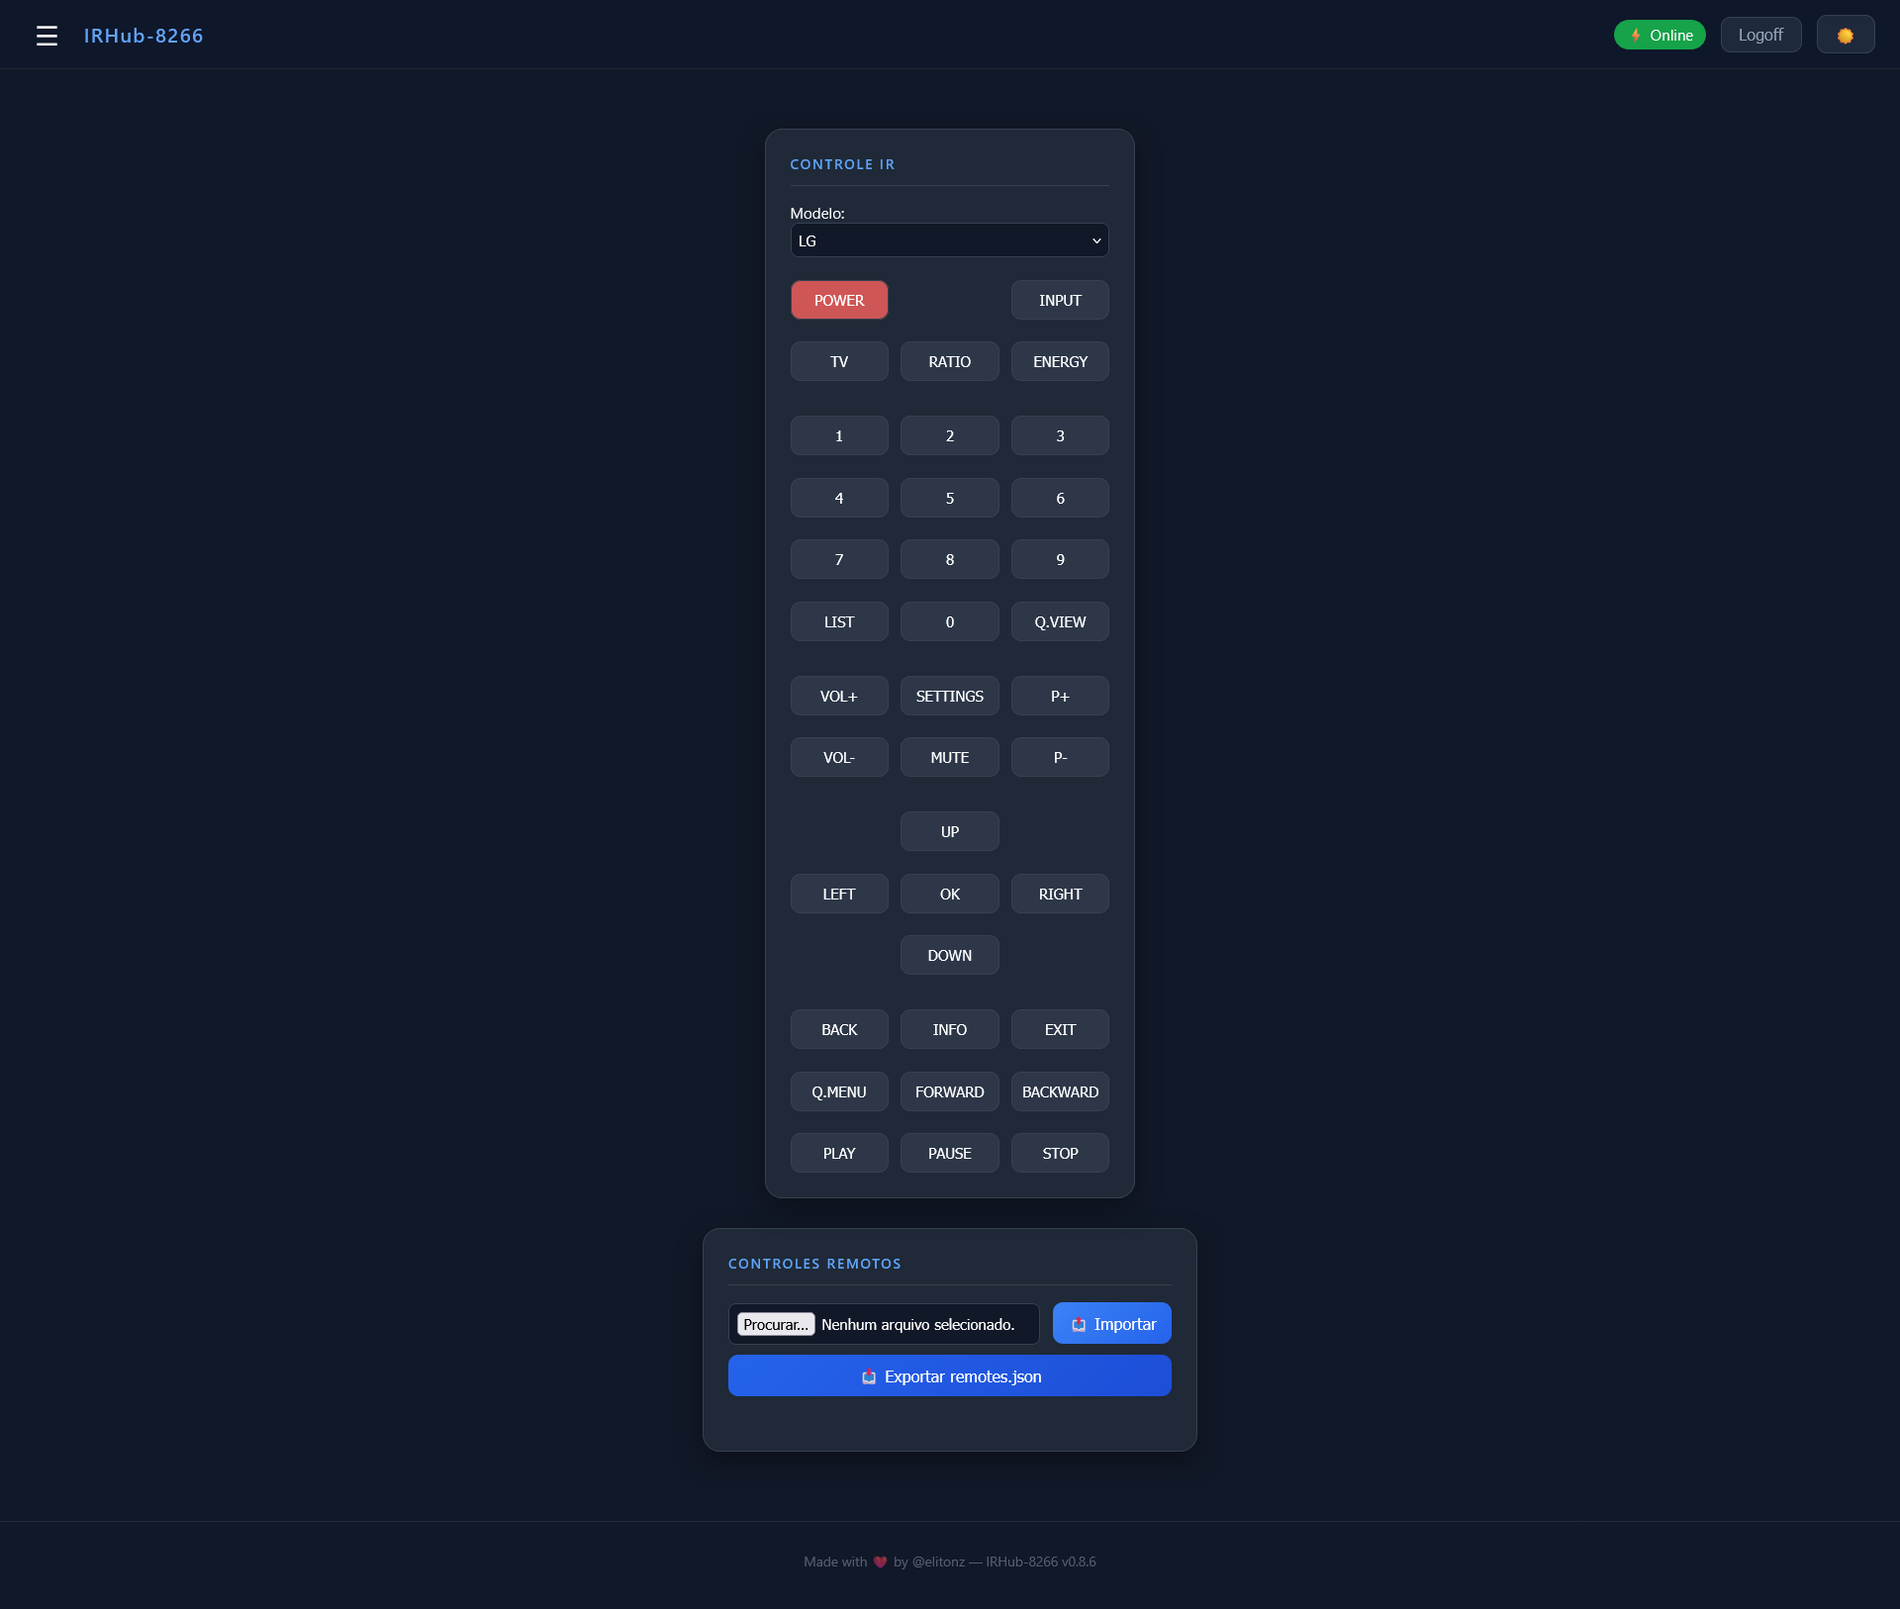
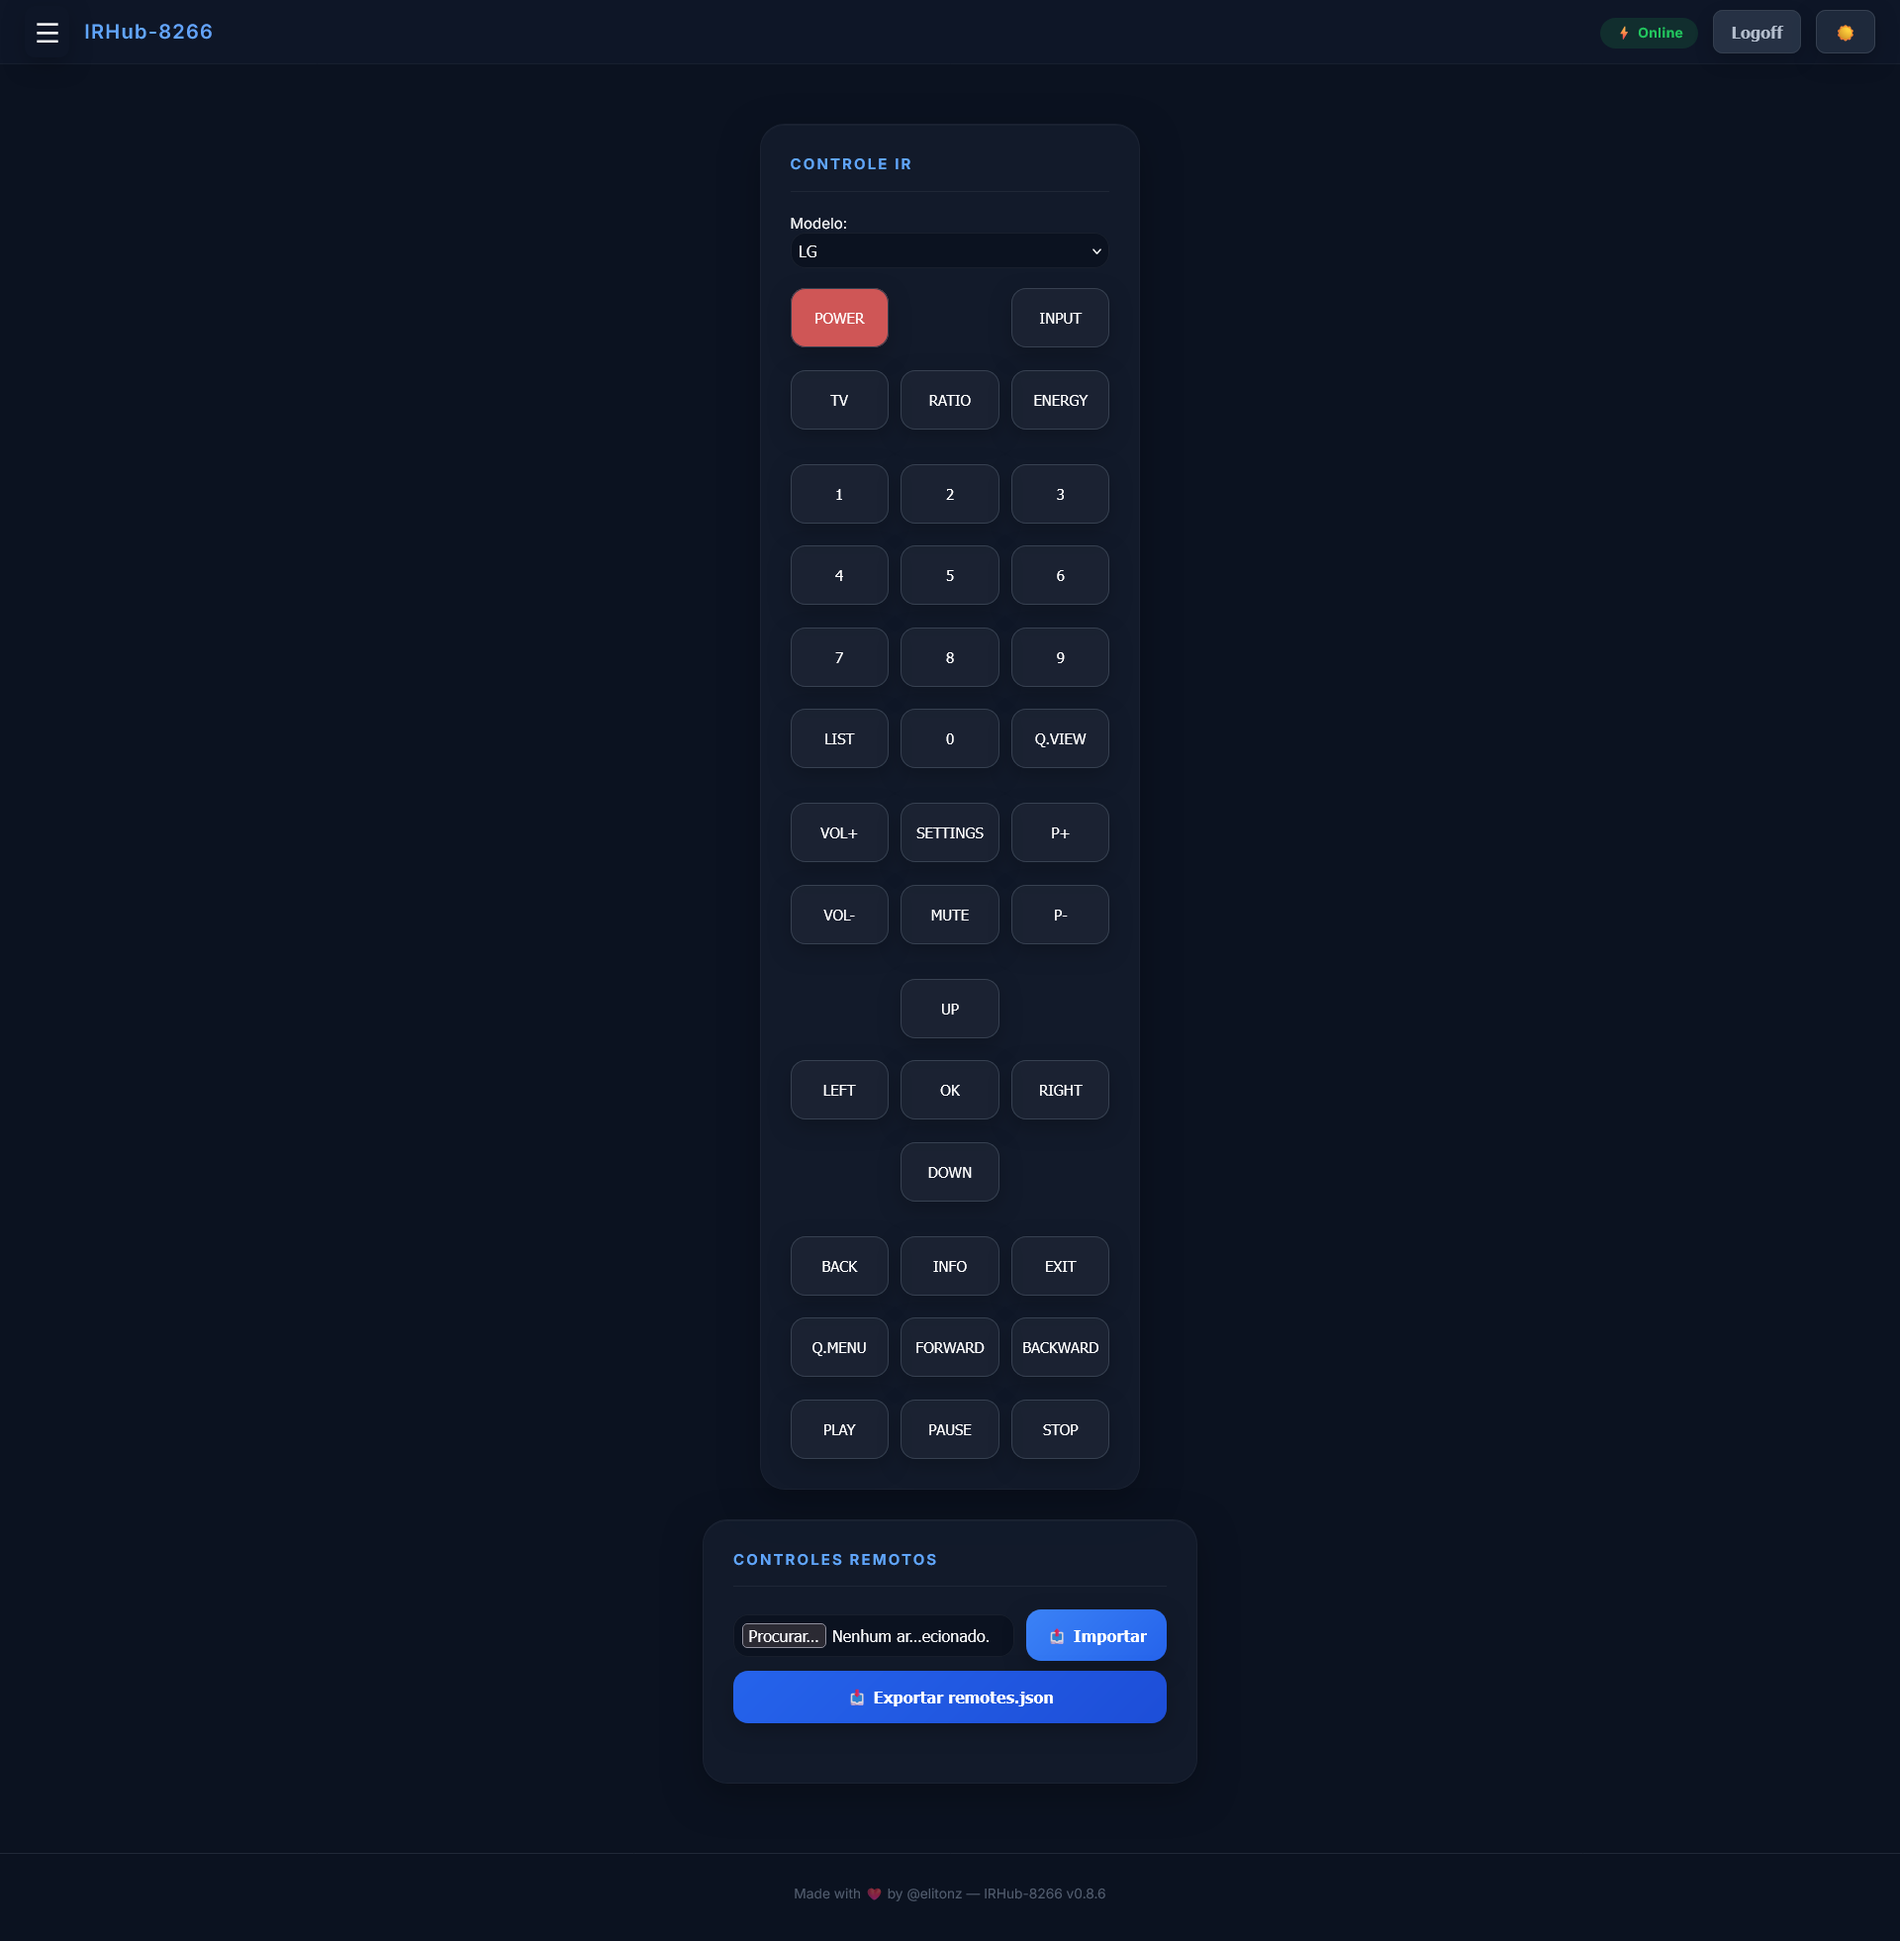
Update 12/05/2026

diff --git a/firmware/IRHub-8266/data/style.css b/firmware/IRHub-8266/data/style.css
@@ -7,11 +7,11 @@
   color-scheme: dark;
 
   --button-text: #fff;
-  --btn-primary-bg: #2563eb;
-  --btn-primary-hv: #3b82f6;
 
-  /* --btn-primary-bg: linear-gradient(135deg, #2563eb, #1d4ed8);
-  --btn-primary-hv: linear-gradient(135deg, #3b82f6, #1e40af); */
+  --btn-primary-bg: linear-gradient(135deg, #2563eb, #1d4ed8);
+  --btn-primary-hv: linear-gradient(135deg, #3b82f6, #1e40af);
+  /* --btn-primary-bg: #2563eb;
+  --btn-primary-hv: #3b82f6; */
   --btn-led-bg: linear-gradient(135deg, #06b6d4, #0ea5e9);
   --btn-led-hv: linear-gradient(135deg, #22d3ee, #0284c7);
   --btn-ir-emitter-bg: linear-gradient(135deg, #8b5cf6, #7c3aed);
@@ -42,7 +42,8 @@
   --text-muted: #94a3b8;
   --border: #374151;
   --nav-bg: rgba(15, 23, 42, .72);
-  --nav-border: #1e293b;
+  /* --nav-border: rgb(30, 41, 59); */
+  --nav-border: rgba(255, 255, 255, .04);
   --link-active-bg: #1e3a5f;
   --link-active-tx: #60a5fa;
   --console-border: #181453;
@@ -72,6 +73,12 @@
   --shadow-sm: 0 2px 8px rgba(0, 0, 0, .12);
   --shadow-md: 0 6px 16px rgba(0, 0, 0, .18);
   --shadow-lg: 0 10px 30px rgba(0, 0, 0, .25);
+
+  --shadow-card:
+    0 10px 30px rgba(0, 0, 0, .25),
+    inset 0 1px 0 rgba(255, 255, 255, .03);
+  --shadow-card-hover:
+    0 12px 28px rgba(15, 23, 42, .10);
 
   --tr-default:
     background .2s ease,
@@ -103,7 +110,8 @@
 [data-theme="light"] {
   color-scheme: light;
 
-  --bg-base: #f6f8fc;
+  /* --bg-base: #f6f8fc; */
+  --bg-base: #eef3f9;
   --bg-surface: rgba(255, 255, 255, .82);
   --bg-raised: #e8edf3;
   --text-primary: #1e293b;
@@ -125,6 +133,14 @@
   --btn-navbar-tx: #475569;
   --btn-navbar-hv-bg: #e2e8f0;
   --btn-navbar-hv-tx: #1e293b;
+  --glass-bg: rgba(255, 255, 255, .82);
+
+
+  --shadow-card:
+    0 10px 24px rgba(15, 23, 42, .06),
+    inset 0 1px 0 rgba(255, 255, 255, .7);
+  --shadow-card-hover:
+    0 12px 28px rgba(15, 23, 42, .10);
 }
 
 html {
@@ -147,8 +163,7 @@ body {
   scrollbar-width: thin;
 
   font-family: Inter, system-ui, sans-serif;
-  background:
-    radial-gradient(circle at top, #13203a 0%, #0b1220 45%);
+  background: var(--bg-base);
   background-color: var(--bg-base);
   background-attachment: fixed;
   color: var(--text-primary);
@@ -160,12 +175,6 @@ body {
   transition:
     background .2s ease,
     color .2s ease;
-}
-
-[data-theme="light"] body {
-  background:
-    radial-gradient(circle at top, #ffffff 0%, #eef3f9 55%);
-  background-color: var(--bg-base);
 }
 
 h1 {
@@ -223,35 +232,22 @@ td a:hover {
 /* ================================================
    FORM / INPUTS
    ================================================ */
-[data-theme="light"] input,
-[data-theme="light"] select {
-  background: rgba(255, 255, 255, .85);
-  border: 1px solid rgba(15, 23, 42, .08);
-}
-
 input,
 select {
   width: 100%;
-  height: 42px;
-  padding: 0 14px;
+  padding: 6px;
   border-radius: var(--radius-md);
-  background: rgba(30, 41, 59, .88);
+  background: var(--bg-base);
   color: var(--text-primary);
   border: 1px solid rgba(255, 255, 255, .06);
   font-size: 13px;
   transition: var(--tr-color);
 }
 
-[data-theme="light"] input:focus,
-[data-theme="light"] select:focus {
-  background: #fff;
-}
-
 input:focus,
 select:focus {
   outline: none;
   border-color: #3b82f6;
-  background: rgba(30, 41, 59, .88);
   box-shadow:
     0 0 0 4px rgba(59, 130, 246, .15);
 }
@@ -283,8 +279,7 @@ progress {
   right: 0;
   height: var(--nav-h);
   background: var(--nav-bg);
-  border-bottom:
-    1px solid rgba(255, 255, 255, .04);
+  border-bottom: 1px solid var(--nav-border);
   display: flex;
   align-items: center;
   padding: 0 20px;
@@ -380,6 +375,7 @@ progress {
 
 .btn-navbar {
   width: auto;
+  height: 35px;
   margin-top: 0;
   padding: 6px 14px;
   font-size: 13px;
@@ -411,8 +407,6 @@ progress {
 .drawer-overlay.open {
   display: block;
 }
-
-/* drawer styles above */
 
 /* ================================================
    APP MODAL
@@ -545,6 +539,67 @@ progress {
 }
 
 /* ================================================
+   STATUS OVERVIEW CARD
+   ================================================ */
+.status-overview {
+  display: flex;
+  flex-direction: column;
+  gap: 10px;
+}
+
+.status-overview-item {
+  display: flex;
+  align-items: center;
+  justify-content: space-between;
+  font-size: 12px;
+}
+
+.status-overview-label {
+  color: var(--text-muted);
+  font-weight: 500;
+}
+
+/* ================================================
+   REMOTES EMPTY STATE
+   ================================================ */
+.remotes-empty-state {
+  grid-column: 1 / -1;
+  display: flex;
+  flex-direction: column;
+  align-items: center;
+  justify-content: center;
+  padding: 32px 16px;
+  gap: 8px;
+  text-align: center;
+  opacity: 0.5;
+}
+
+.remotes-empty-icon {
+  font-size: 32px;
+  margin-bottom: 4px;
+}
+
+.remotes-empty-state p {
+  margin: 0;
+  font-size: 13px;
+  font-weight: 600;
+  color: var(--text-primary);
+}
+
+.remotes-empty-state span {
+  font-size: 12px;
+  color: var(--text-muted);
+}
+
+.remotes-empty-state code {
+  font-family: monospace;
+  background: var(--bg-raised);
+  padding: 1px 5px;
+  border-radius: 4px;
+  font-size: 11px;
+}
+
+/* ================================================
    WS OVERLAY
    ================================================ */
 #loginModal {
@@ -628,7 +683,6 @@ progress {
 /* ================================================
    DRAWER — MODERN SIDEBAR
    ================================================ */
-
 .drawer {
   scrollbar-width: thin;
 
@@ -807,13 +861,6 @@ progress {
 /* ================================================
    CARD
    ================================================ */
-[data-theme="light"] section.card {
-  background: rgba(255, 255, 255, .82);
-  box-shadow:
-    0 10px 24px rgba(15, 23, 42, .06),
-    inset 0 1px 0 rgba(255, 255, 255, .7);
-}
-
 section.card {
   max-width: 420px;
   background: var(--glass-bg);
@@ -821,15 +868,12 @@ section.card {
   padding: 24px;
   border-radius: var(--radius-xl);
   border: 1px solid rgba(255, 255, 255, 0.04);
-  box-shadow:
-    0 10px 30px rgba(0, 0, 0, .25),
-    inset 0 1px 0 rgba(255, 255, 255, .03);
+  box-shadow: var(--shadow-card);
   transition: var(--tr-color), var(--tr-elev);
 }
 
-[data-theme="light"] section.card:hover {
-  box-shadow:
-    0 12px 28px rgba(15, 23, 42, .10);
+section.card:hover {
+  box-shadow: var(--shadow-card-hover);
 }
 
 section.card header {
@@ -1359,7 +1403,7 @@ select:focus-visible {
   section.card:hover {
     transform: translateY(-2px);
     box-shadow:
-      0 10px 24px rgba(0,0,0,.28);
+      0 10px 24px rgba(0, 0, 0, .28);
     border-color: rgba(96, 165, 250, .15);
   }
 }
